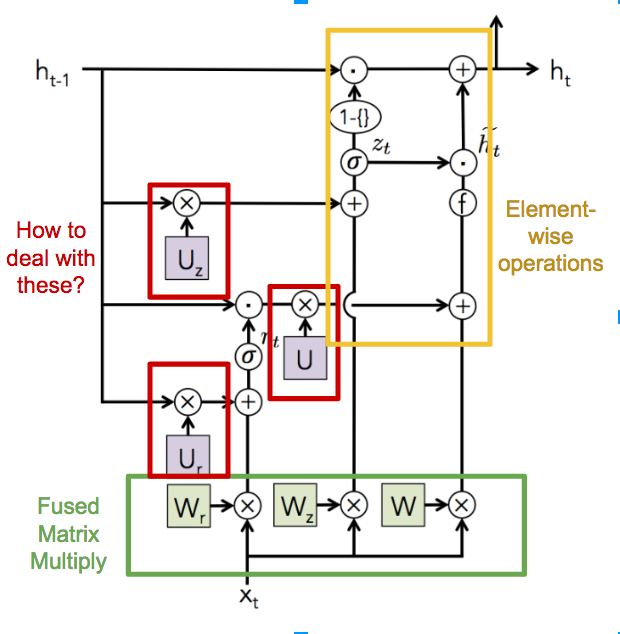
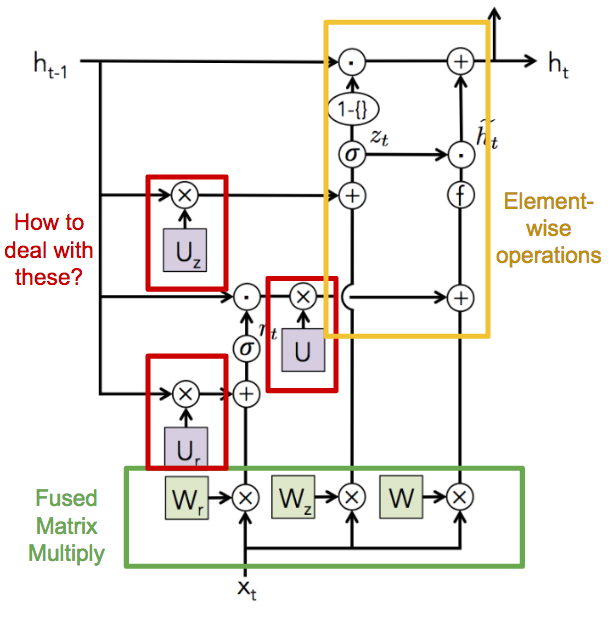
updates

diff --git a/index.md b/index.md
@@ -10,7 +10,7 @@ Background
 ----------
 Long short-term memory(LSTM) is a recurrent neural network architecture that is capable of learning long-term dependencies. It has been proven to be very powerful in classifying, processing and predicting inputs with time series (composing articles, translating etc.). The image below shows a classic LSTM cell and the operations involved in it:
 
-<img src="images/classic_lstm.png" width="400">
+<img src="images/classic_lstm.png" width="600" align="middle">
 
 
 
@@ -19,11 +19,17 @@ Long short-term memory(LSTM) is a recurrent neural network architecture that is 
 
 Challenges in LSTM scheduler
 ----------------------------
-1. There exist dependencies between gates for some LSTM variants(shown in Figure ). Some matrix multiplications can not be combined since they depend on each other. The scheduler needs to explore independent matrix multiplications and allocate the weights in contiguous memory so that they can be combined.
+1. There exist dependencies between gates for some LSTM variants(shown in Figure #). Some matrix multiplications can not be combined since they depend on each other. The scheduler needs to explore independent matrix multiplications and allocate the weights in contiguous memory so that they can be combined.
 2. LSTM variants have different element-wise operations that can not be scheduled statically. The scheduler needs to explore potential element-wise blocks and generate a fused Cuda kernel for each of them.
 3. LSTM variants could have recurrent loops on different data. Traditional LSTM has both recurrent state and output, while GRU has only recurrent output. The scheduler should allow users to determine which part of the being recurrent.
 
-<img src="images/gru_labeled.png" width="400">
+<img src="images/gru_labeled.png" width="400" align="middle">
+<p align="center"><b>Figure #</b></p>
 
 Invariants
 ----------
+1. Hyperparameters that all LSTM variants care about. Some example are number of layers, number of time steps for each layer, number of hidden units etc.
+2. All LSTM variants (well-known) can be expressed with the same set of primitives, as shown in Figure #.
+
+<img src="images/invariants.png" width="600" align="middle">
+<p align="center"><b>Figure #</b></p>
